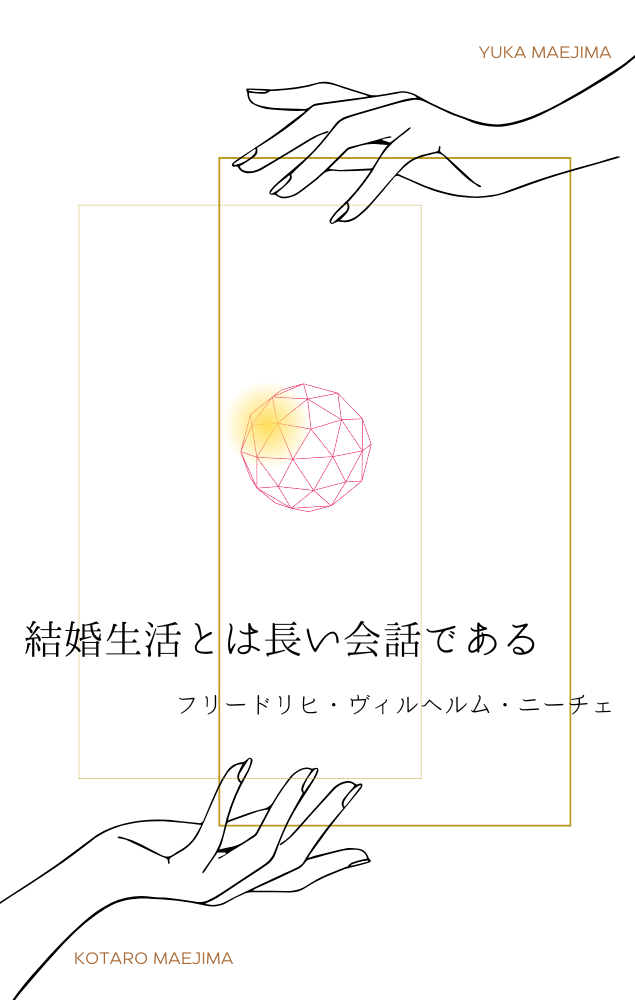
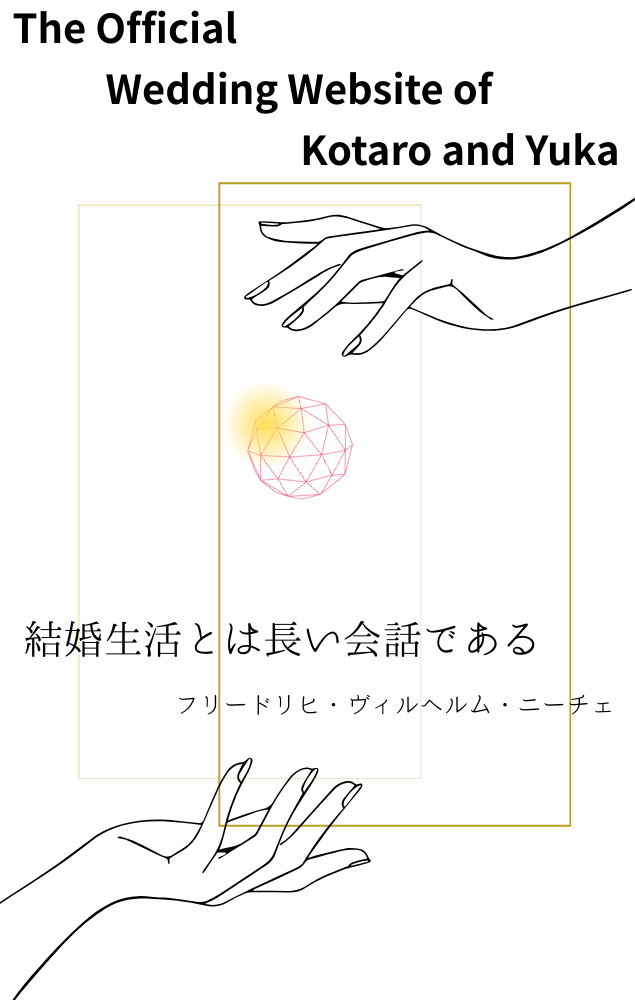
画像追加、編集

diff --git a/src/app/components/main.tsx b/src/app/components/main.tsx
@@ -7,6 +7,7 @@ import { Button, Card, CardContent, Typography, Box, CircularProgress } from "@m
 import { Calendar, Camera, MapPin, MessageCircle, Gem, CircleAlert } from "lucide-react";
 import dayjs from 'dayjs';
 import headerImage from './header.png';
+import middleImage from './middle.png';
 import 'dayjs/locale/ja';
 import { uploadFileToDrive } from '../api/api';
 
@@ -93,6 +94,7 @@ const Main: React.FC = () => {
     <>
       <div className="w-full h-screen bg-white relative flex items-center justify-center max-w-xl  mx-auto md:p-12 space-y-16  opacity-95">
         <img src={headerImage.src} alt="Full Image" className="w-full h-full object-contain aspect-auto" />
+        <img src={middleImage.src} alt="Full Image" className="w-full h-full object-contain aspect-auto" />
       </div>
 
       <main className="bg-white max-w-xl mx-auto p-6 md:p-12 space-y-16 opacity-95 ">
